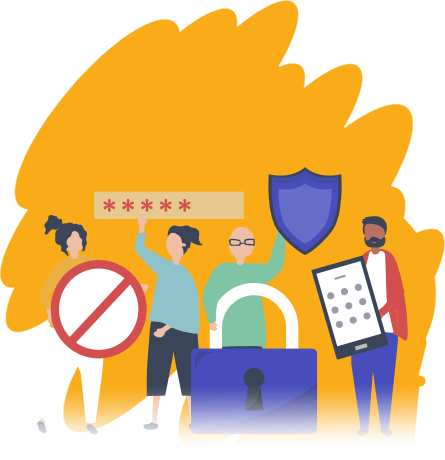
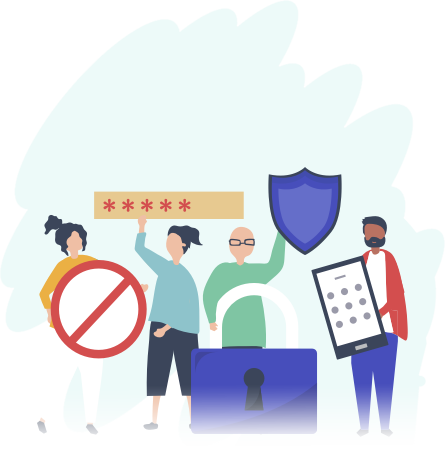
refinements :dash:

diff --git a/src/static/css/style.min.css b/src/static/css/style.min.css
@@ -1,1 +1,1 @@
-html{-webkit-box-sizing:border-box;-moz-box-sizing:border-box;-webkit-font-smoothing:antialiased;-moz-font-smoothing:antialiased;-o-font-smoothing:antialiased;text-rendering:optimizeLegibility;overflow-x:hidden}body{font-family:Poppins,sans-serif;font-size:1rem;background-color:#fefeff}sup{font-size:1.8rem;top:-.2em}.sup_footer{font-size:1.2rem;top:-.02em}.layout_padding{padding:75px 0}.layout_padding2{padding:45px 0}.layout_padding2 a{color:#34bbae;text-decoration:none;background-color:transparent}.layout_padding2 a:hover{color:#34bbae;opacity:.8;text-decoration:none;background-color:transparent}.layout_padding2 p{margin-bottom:20px;font-size:.8rem;line-height:1.8rem}.layout_padding2-top{padding-top:45px}.layout_padding-top{padding-top:75px}.layout_padding-bottom{padding-bottom:75px}#mindhugJobs{margin-bottom:100px}.btn-link{font-weight:600;color:#34bbae!important;text-decoration:none!important}.mindhugCareer button{background-color:#34bbae;border:none;outline:0;color:#fff;padding:8px 30px;margin-top:15px;font-size:15px;text-transform:uppercase;border-radius:3px}.mindhugCareer button:hover{background-color:#247971;color:#fff}.footer_link{font-weight:600}.footer_link{color:#34bbae}.footer_link:hover{color:#34bbae;opacity:.8}.call_to-btn{display:inline-block;padding:15px 45px;border-radius:3px;border:none!important;font-size:15px;background-color:#fff;color:#212121;font-weight:600;transition:all .3s ease 0s}.hero_section .call_to-btn{background-color:#34bbae;color:#fff}.call_to-btn img{width:18px;margin-left:10px}.btn_on-hover{transition:all .3s ease 0s}.btn_on-hover:hover,.call_to-btn:hover{-webkit-box-shadow:0 5px 10px -5px rgba(0,0,0,.7);-moz-box-shadow:0 5px 10px -5px rgba(0,0,0,.7);box-shadow:0 5px 10px -5px rgba(0,0,0,.7);transform:translateY(-7px)}.main-heading{color:#082465;font-weight:700;text-align:center}.header_section{padding-top:10px;font-family:Poppins,sans-serif;border-top:3px solid #34bbae}.subpages{padding-top:10px;font-family:Poppins,sans-serif;margin-bottom:100px;height:90px;border-top:3px solid #34bbae;background:#fff;box-shadow:0 0 5px rgba(0,0,0,.1)}nav.navbar.navbar-expand-lg{padding:10px 0}.custom_nav-container.navbar-expand-lg .navbar-nav .nav-link{padding:10px 20px;color:#212121;text-align:center}a,a:focus,a:hover{text-decoration:none}a:focus,a:hover{color:initial}.btn,.btn:focus{outline:0!important;box-shadow:none}.top_container{position:relative}.top_container::before{content:"";position:absolute;width:100%;height:100%;background-size:100% 100%;background-position:right bottom;background-repeat:no-repeat;z-index:-1}.sub_page .top_container::before{background-color:#fdd31d;background-image:none}.navbar-brand img{width:165px;margin-right:7px}.custom_nav-container .nav_search-btn{background-image:url(../images/search-icon.png);background-size:22px;background-repeat:no-repeat;background-position-y:7px;width:35px;height:35px;padding:0;border:none}.navbar-brand{display:flex;align-items:center}.navbar-brand span{font-size:22px;font-weight:700;color:#212121}.custom_nav-container{z-index:99999;padding:15px 0}.custom_nav-container .navbar-toggler{outline:0}.custom_nav-container .navbar-toggler .navbar-toggler-icon{background-image:url(../images/menu.svg);background-size:40px}.hero-container{display:flex;padding-top:90px;padding-bottom:100px}.hero_detail-box{width:50%}.hero_img-container{width:60%;margin-left:5%}.hero_img-container img{width:100%}.hero_detail-box{color:#212121}.hero_detail-box h1{font-size:50px;color:#212121;font-weight:600;width:100%}.hero_detail-box p{margin-top:20px;margin-bottom:35px}.common_style>section{padding:50px 0}.common_style .row{align-items:center}.common_style h3{font-weight:600;color:#151516}.common_style p{color:#4e4f50;margin:30px 0 50px 0}.common_style img{width:100%}.about_section{text-align:right;margin-bottom:100px}.about_section a{background-color:#34bbae;color:#fff}.section .title-area{max-width:960px;margin:0 auto 70px;display:block;padding:0 15px;text-align:center;line-height:2rem}.card .description{font-size:13px}.description h3{text-align:center;font-size:1.4rem;margin-top:20px}.card .title{margin-bottom:5px;color:#333;text-align:center;font-size:1.4rem}.small-text{color:#777;text-align:center;margin-bottom:80px}.section .bottom-area{max-width:760px;margin:70px auto 70px;display:block;padding:0 15px;text-align:center}.section .bottom-area h3{font-size:2.6rem}.section .bottom-area p{font-size:1.2rem;color:#777}.section .bottom-area button{background-color:#34bbae;border:none;outline:0;color:#fff;padding:12px 40px;margin-top:15px;font-size:15px;font-weight:700;text-transform:uppercase;border-radius:3px}.section .bottom-area button:hover{background-color:#247971;color:#fff}.avatar{border:3px solid #34bbae;border-radius:50%;overflow:hidden;max-width:180px;margin:0 auto}.avatar-danger{border-color:#34bbae}.admission_section a{background-color:#fdd31d;color:#fefeff}.why_section{text-align:right}.why_section a{background-color:#34bbae;color:#fff}.determine_section a{background-color:#faab18;color:#fefeff}.client_section h2,.client_section h5,.client_section p{font-weight:400}.client_section h2{text-align:center;font-weight:600}.client_section h5{font-size:24px;color:#212121;font-weight:600}.client_section .row{align-items:center;padding:75px 0;margin:0 15px}.client_section img{width:100%}.client_img-box::after,.client_img-box::before{content:"";position:absolute;width:100px;height:30px;border-radius:20px;background-color:#40e0d0}.client_img-box::before{top:-15px;transform:rotate(139deg);left:-15px;animation:beforeanimate 1s;animation-delay:.1s}.client_img-box::after{bottom:-15px;transform:rotate(142deg);right:-15px;animation:afteranimate 1s;animation-delay:.1s}@keyframes beforeanimate{0%{top:43%;transform:rotate(142deg);left:31%}100%{top:-15px;transform:rotate(139deg);left:-15px}}@keyframes afteranimate{0%{bottom:46%;transform:rotate(142deg);right:35%}100%{bottom:-15px;transform:rotate(142deg);right:-15px}}.client_section .carousel-indicators{margin:0;justify-content:flex-end;padding-right:15px;bottom:20px}.client_section .carousel-indicators li{width:25px;height:25px;background-color:#f7f7f7;border-radius:100%;opacity:1}.client_section .carousel-indicators li.active{background-color:#40e0d0}.section .mcp-title-area{max-width:760px;margin:0 auto 70px;display:block;padding:0 15px;text-align:center;line-height:2rem}.section .mcp-area{max-width:760px;margin:0 auto 70px;display:block;padding:0 15px;text-align:center}.section .mcp-area input{width:100%;height:40px;margin-bottom:20px;padding:0 15px;border-radius:3px;border:1px solid #ccc}.section .mcp-area textarea{width:100%;height:auto;margin-bottom:20px;padding:15px 15px;border-radius:3px;border:1px solid #ccc}.section .mcp-area input:focus{outline:0!important}.section .mcp-area textarea:focus{outline:0!important}.section .mcp-area button{background-color:#34bbae;border:none;outline:0;color:#fff;padding:12px 40px;margin-top:15px;font-size:15px;font-weight:700;text-transform:uppercase;border-radius:3px}.section .mcp-area button:hover{background-color:#247971;color:#fff}.validation-text{position:relative;top:2px;right:170px}.contact_section{padding:75px 45px;font-family:Poppins,sans-serif}.contact_section .row{align-items:center}.contact_section input{border:none;outline:0;border-bottom:1px solid #000;width:90%;margin:15px 0}.contact_form-container button{border:none;background-color:#6bd1bd;color:#fff;font-size:15px;padding:15px 45px;border-radius:30px;text-transform:uppercase;font-weight:700}.contact_img-box{display:flex;align-items:center}.contact_img-box img{width:100%}.contact_section h2{font-size:26px;color:#454545;font-weight:600;font-family:Poppins,sans-serif;margin-bottom:35px}.info_section{background-color:#f7f7f7;color:#222525;font-family:Poppins,sans-serif}.info_logo-box{display:flex;justify-content:center}.info_logo-box h2{font-weight:700;padding:5px 7px;border-bottom:1px solid #e6e2dd}.info_section ul{padding:0}.info_section ul li{list-style-type:none;margin:3px 0;font-size:.8rem;line-height:1.8rem}.info_section ul li a{color:#222525}.info_section ul li a:hover{color:#222525;opacity:.8}.info_section h5{margin-bottom:12px;font-size:.8rem;font-weight:600;text-transform:uppercase}.info_section .form_container input{height:40px;padding:10px}.info_section .form_container input::placeholder{color:#ccc8c8}.info_section .form_container button{background-color:#34bbae;border:none;outline:0;color:#fff;padding:8px 30px;margin-top:15px;font-size:15px;text-transform:uppercase;border-radius:3px}.info_section .form_container button:hover{background-color:#247971;color:#fff}.mindhug_validation{display:block;position:relative;padding-left:35px;margin-top:15px;margin-bottom:40px;cursor:pointer;font-size:.8rem;-webkit-user-select:none;-moz-user-select:none;-ms-user-select:none;user-select:none}.mindhug_validation span{line-height:1rem}.mindhug_validation input{position:absolute;opacity:0;cursor:pointer;height:0;width:0}.mindhug_checkmark{position:absolute;top:0;left:0;height:25px;width:25px;background-color:#eee;border:1px solid #d2d2d2;border-radius:3px}.mindhug_validation:hover input~.mindhug_checkmark{background-color:#f9f9f9}.mindhug_validation input:checked~.mindhug_checkmark{background-color:#34bbae;border:none}.mindhug_checkmark:after{content:"";position:absolute;display:none}.mindhug_validation input:checked~.mindhug_checkmark:after{display:block}.mindhug_validation .mindhug_checkmark:after{left:9px;top:5px;width:7px;height:10px;border:solid #fff;border-width:0 3px 3px 0;-webkit-transform:rotate(45deg);-ms-transform:rotate(45deg);transform:rotate(45deg)}.mindhug-checkmark{position:absolute;top:0;left:0;height:25px;width:25px;background-color:#eee;border:1px solid #d2d2d2;border-radius:3px}.mindhug_validation:hover input~.mindhug-checkmark{background-color:#f9f9f9}.mindhug_validation input:checked~.mindhug-checkmark{background-color:#34bbae;border:none}.mindhug-checkmark:after{content:"";position:absolute;display:none}.mindhug_validation input:checked~.mindhug-checkmark:after{display:block}.mindhug_validation .mindhug-checkmark:after{left:9px;top:5px;width:7px;height:10px;border:solid #fff;border-width:0 3px 3px 0;-webkit-transform:rotate(45deg);-ms-transform:rotate(45deg);transform:rotate(45deg)}.social_container{width:90%;margin:0 auto;padding:25px 0}.info_section .social-box{margin:0 auto;width:400px;display:flex;justify-content:center}.info_section .social-box img{width:35px;margin-right:5px}.info_section .social-box .fa{padding-left:.8rem!important;color:#222525;opacity:.7}.info_section .social-box .fa:hover{opacity:.9}.inner-pages p{margin:30px auto;line-height:1.8rem}.footer_section{background-color:#f7f7f7;padding:20px 15px;font-family:Poppins,sans-serif;border-top:1px solid #e6e2dd}.footer_section p{color:#222525;margin:0;text-align:center;font-size:.8rem}.footer_section a{color:#fdfdfe}.wpcc-btn{border-radius:5px;outline:0!important}.wpcc-container{box-shadow:0 0 10px rgba(0,0,0,.4)}
+html{-webkit-box-sizing:border-box;-moz-box-sizing:border-box;-webkit-font-smoothing:antialiased;-moz-font-smoothing:antialiased;-o-font-smoothing:antialiased;text-rendering:optimizeLegibility;overflow-x:hidden;outline:none!important}body{font-family:'Nunito',sans-serif;font-size:1rem;background-color:#fefeff}sup{font-size:1rem;top:-.6em}.sup_footer{font-size:.8rem;top:-.2em}.layout_padding{padding:75px 0}.layout_padding2{padding:45px 0}.layout_padding2 a{color:#34bbae;text-decoration:none;background-color:transparent}.layout_padding2 a:hover{color:#34bbae;opacity:.8;text-decoration:none;background-color:transparent}.layout_padding2 p{margin-bottom:20px;font-size:.8rem;line-height:1.8rem}.layout_padding2-top{padding-top:45px}.layout_padding-top{padding-top:75px}.layout_padding-bottom{padding-bottom:75px}#mindhugJobs{margin-bottom:100px}.btn-link{font-weight:600;color:#34bbae!important;text-decoration:none!important}.mindhugCareer button{background-color:#34bbae;border:none;outline:none;color:#fff;padding:8px 30px;margin-top:15px;font-size:15px;text-transform:uppercase;border-radius:3px}.mindhugCareer button:hover{background-color:#247971;color:#fff}.footer_link{font-weight:600;color:#34bbae}.footer_link:hover{color:#34bbae;opacity:.8}.call_to-btn{display:inline-block;padding:15px 45px;border-radius:3px;border:none!important;font-size:15px;background-color:#fff;color:#304351;font-weight:700;outline:none}.hero_section{background-image:url(../images/hero.jpg);background-position:50% 50%;background-size:cover;background-repeat:no-repeat;padding-bottom:100px}.hero_section .call_to-btn{background-color:#34bbae;color:#fff;outline:none}.call_to-btn img{width:18px;margin-left:10px}.btn_on-hover{background-color:#3cd6c7;color:#fff;outline:none}.call_to-btn:hover,.btn_on-hover:hover{background-color:#3cd6c7;color:#fff;outline:none}.main-heading{color:#082465;font-weight:700;text-align:center}.header_section{padding-top:10px;font-family:'Nunito',sans-serif;height:90px;border-top:3px solid #34bbae;border-bottom:1px solid #e4ebec}.subpages{padding-top:10px;font-family:'Nunito',sans-serif;margin-bottom:100px;height:90px;border-top:3px solid #34bbae;background:#fff;box-shadow:0 0 5px rgba(0,0,0,0.1)}nav.navbar.navbar-expand-lg{padding:10px 0}.custom_nav-container.navbar-expand-lg .navbar-nav .nav-link{padding:10px 20px;text-align:center;font-size:.9375rem;color:#304351;text-decoration:none}.custom_nav-container.navbar-expand-lg .navbar-nav .nav-link:active{color:#8f8c8c!important}.custom_nav-container.navbar-expand-lg .navbar-nav .nav-link:hover{color:#34bbae}a,a:hover,a:focus{text-decoration:none}a:hover,a:focus{color:initial}.btn,.btn:focus{outline:none!important;box-shadow:none}.top_container{position:relative}.top_container::before{content:"";position:absolute;width:100%;height:100%;background-size:100% 100%;background-position:right bottom;background-repeat:no-repeat;z-index:-1}.sub_page .top_container::before{background-color:#fdd31d;background-image:none}.navbar-brand img{width:165px;margin-right:7px}.custom_nav-container .nav_search-btn{background-image:url(../images/search-icon.png);background-size:22px;background-repeat:no-repeat;background-position-y:7px;width:35px;height:35px;padding:0;border:none}.navbar-brand{display:flex;align-items:center}.navbar-brand span{font-size:22px;font-weight:700;color:#304351}.custom_nav-container{z-index:99999;padding:15px 0}.custom_nav-container .navbar-toggler{outline:none}.custom_nav-container .navbar-toggler .navbar-toggler-icon{background-image:url(../images/menu.svg);background-size:40px}.hero-container{display:flex;padding-top:150px;padding-bottom:100px}.hero_detail-box{width:50%}.hero_img-container{width:60%;margin-left:5%}.hero_img-container img{width:100%}.hero_detail-box{color:#304351}.hero_detail-box h1{font-size:50px;color:#304351;font-weight:600;width:100%}.hero_detail-box p{margin-top:20px;margin-bottom:35px}.common_style>section{padding:50px 0}.common_style .row{align-items:center}.common_style h3{font-weight:600;color:#1e2b38}.common_style p{color:#4e4f50;margin:30px 0 50px}.common_style img{width:100%}.about_section{text-align:right;margin-bottom:100px}.about_section a{background-color:#34bbae;color:#fff}.section .title-area{max-width:960px;margin:0 auto 70px;display:block;padding:0 15px;text-align:center;line-height:2rem}.card .description{font-size:13px}.description h3{text-align:center;font-size:1.4rem;margin-top:20px}.card .title{margin-bottom:5px;color:#333;text-align:center;font-size:1.4rem}.small-text{color:#777;text-align:center;margin-bottom:80px}.section .bottom-area{max-width:760px;margin:70px auto;display:block;padding:0 15px;text-align:center}.section .bottom-area h3{font-size:2.6rem}.section .bottom-area p{font-size:1.2rem;color:#777}.section .bottom-area button{background-color:#3cd6c7;border:none;outline:none;color:#fff;padding:12px 40px;margin-top:15px;font-size:15px;font-weight:700;text-transform:uppercase;border-radius:3px}.section .bottom-area button:hover{background-color:#34bbae;color:#fff}.avatar{border:3px solid #34bbae;border-radius:50%;overflow:hidden;max-width:180px;margin:0 auto}.avatar-danger{border-color:#34bbae}.admission_section a{background-color:#fdd31d;color:#fefeff}.why_section{text-align:right}.why_section a{background-color:#34bbae;color:#fff}.determine_section a{background-color:#3cd6c7;color:#fff;outline:none}.determine_section a:hover{background-color:#34bbae;color:#fff;outline:none}.client_section h2,.client_section h5,.client_section p{font-weight:400}.client_section h2{text-align:center;font-weight:600}.client_section h5{font-size:24px;color:#304351;font-weight:600}.client_section .row{align-items:center;padding:75px 0;margin:0 15px}.client_section img{width:100%}.client_img-box::before,.client_img-box::after{content:"";position:absolute;width:100px;height:30px;border-radius:20px;background-color:#40E0D0}.client_img-box::before{top:-15px;transform:rotate(139deg);left:-15px;animation:beforeanimate 1s;animation-delay:.1s}.client_img-box::after{bottom:-15px;transform:rotate(142deg);right:-15px;animation:afteranimate 1s;animation-delay:.1s}@keyframes beforeanimate{0%{top:43%;transform:rotate(142deg);left:31%}100%{top:-15px;transform:rotate(139deg);left:-15px}}@keyframes afteranimate{0%{bottom:46%;transform:rotate(142deg);right:35%}100%{bottom:-15px;transform:rotate(142deg);right:-15px}}.client_section .carousel-indicators{margin:0;justify-content:flex-end;padding-right:15px;bottom:20px}.client_section .carousel-indicators li{width:25px;height:25px;background-color:#f7f7f7;border-radius:100%;opacity:1}.client_section .carousel-indicators li.active{background-color:#40E0D0}.section .mcp-title-area{max-width:760px;margin:0 auto 70px;display:block;padding:0 15px;text-align:center;line-height:2rem}.section .mcp-area{max-width:760px;margin:0 auto 70px;display:block;padding:0 15px;text-align:center}.section .mcp-area input{width:100%;height:40px;margin-bottom:20px;padding:0 15px;border-radius:3px;border:1px solid #ccc}.section .mcp-area textarea{width:100%;height:auto;margin-bottom:20px;padding:15px;border-radius:3px;border:1px solid #ccc}.section .mcp-area input:focus{outline:none!important}.section .mcp-area textarea:focus{outline:none!important}.section .mcp-area button{background-color:#34bbae;border:none;outline:none;color:#fff;padding:12px 40px;margin-top:15px;font-size:15px;font-weight:700;text-transform:uppercase;border-radius:3px}.section .mcp-area button:hover{background-color:#247971;color:#fff}.validation-text{position:relative;top:2px;right:170px}.contact_section{padding:75px 45px;font-family:'Nunito',sans-serif}.contact_section .row{align-items:center}.contact_section input{border:none;outline:none;border-bottom:1px solid #000;width:90%;margin:15px 0}.contact_form-container button{border:none;background-color:#6bd1bd;color:#fff;font-size:15px;padding:15px 45px;border-radius:30px;text-transform:uppercase;font-weight:700}.contact_img-box{display:flex;align-items:center}.contact_img-box img{width:100%}.contact_section h2{font-size:26px;color:#454545;font-weight:600;font-family:'Nunito',sans-serif;margin-bottom:35px}.info_section{background-color:#f7f7f7;color:#222525;font-family:'Nunito',sans-serif}.info_logo-box{display:flex;justify-content:center}.info_logo-box h2{font-weight:700;padding:5px 7px;border-bottom:1px solid #e6e2dd}.info_section ul{padding:0}.info_section ul li{list-style-type:none;margin:3px 0;font-size:.8rem;line-height:1.8rem}.info_section ul li a{color:#222525}.info_section ul li a:hover{color:#222525;opacity:.8}.info_section h5{margin-bottom:12px;font-size:.8rem;font-weight:600;text-transform:uppercase}.info_section .form_container input{height:40px;padding:10px}.info_section .form_container input::placeholder{color:#ccc8c8}.info_section .form_container button{background-color:#34bbae;border:none;outline:none;color:#fff;padding:8px 30px;margin-top:15px;font-size:15px;font-weight:700;text-transform:uppercase;border-radius:3px}.info_section .form_container button:hover{background-color:#3cd6c7;color:#fff}.mindhug_validation{display:block;position:relative;padding-left:35px;margin-top:15px;margin-bottom:40px;cursor:pointer;font-size:.8rem;-webkit-user-select:none;-moz-user-select:none;-ms-user-select:none;user-select:none}.mindhug_validation span{line-height:1rem}.mindhug_validation input{position:absolute;opacity:0;cursor:pointer;height:0;width:0}.mindhug_checkmark{position:absolute;top:0;left:0;height:25px;width:25px;background-color:#eee;border:1px solid #d2d2d2;border-radius:3px}.mindhug_validation:hover input ~ .mindhug_checkmark{background-color:#f9f9f9}.mindhug_validation input:checked ~ .mindhug_checkmark{background-color:#34bbae;border:none}.mindhug_checkmark:after{content:"";position:absolute;display:none}.mindhug_validation input:checked ~ .mindhug_checkmark:after{display:block}.mindhug_validation .mindhug_checkmark:after{left:9px;top:5px;width:7px;height:10px;border:solid #fff;border-width:0 3px 3px 0;-webkit-transform:rotate(45deg);-ms-transform:rotate(45deg);transform:rotate(45deg)}.mindhug-checkmark{position:absolute;top:0;left:0;height:25px;width:25px;background-color:#eee;border:1px solid #d2d2d2;border-radius:3px}.mindhug_validation:hover input ~ .mindhug-checkmark{background-color:#f9f9f9}.mindhug_validation input:checked ~ .mindhug-checkmark{background-color:#34bbae;border:none}.mindhug-checkmark:after{content:"";position:absolute;display:none}.mindhug_validation input:checked ~ .mindhug-checkmark:after{display:block}.mindhug_validation .mindhug-checkmark:after{left:9px;top:5px;width:7px;height:10px;border:solid #fff;border-width:0 3px 3px 0;-webkit-transform:rotate(45deg);-ms-transform:rotate(45deg);transform:rotate(45deg)}.social_container{width:90%;margin:0 auto;padding:25px 0}.info_section .social-box{margin:0 auto;width:400px;display:flex;justify-content:center}.info_section .social-box img{width:35px;margin-right:5px}.info_section .social-box .fa{padding-left:.8rem!important;color:#222525;opacity:.7}.info_section .social-box .fa:hover{opacity:.9}.inner-pages p{margin:30px auto;line-height:1.8rem}.footer_section{background-color:#f7f7f7;padding:20px 15px;font-family:'Nunito',sans-serif;border-top:1px solid #e6e2dd}.footer_section p{color:#222525;margin:0;text-align:center;font-size:.8rem}.footer_section a{color:#fdfdfe}.wpcc-btn{border-radius:5px;outline:none!important}.wpcc-container{box-shadow:0 0 10px rgba(0,0,0,.4)}

diff --git a/src/static/css/style.css b/src/static/css/style.css
@@ -6,22 +6,23 @@ html {
     -o-font-smoothing:antialiased;
     text-rendering:optimizeLegibility;
     overflow-x: hidden;
+    outline: none !important;
 }
 
 body {
-  font-family: 'Poppins', sans-serif;
+  font-family: 'Nunito', sans-serif;
   font-size: 1rem;
   background-color: #fefeff;
 }
 
 sup {
-  font-size: 1.8rem;
-  top: -.2em;
+  font-size: 1rem;
+  top: -.6em;
 }
 
 .sup_footer {
-  font-size: 1.2rem;
-  top: -.02em;
+  font-size: .8rem;
+  top: -.2em;
 }
 
 .layout_padding {
@@ -110,14 +111,23 @@ sup {
   border: none !important;
   font-size: 15px;
   background-color: #ffffff;
-  color: #212121;
-  font-weight: 600;
-  transition: all 0.3s ease 0s;
+  color: #304351;
+  font-weight: 700;
+  outline: none;
+}
+
+.hero_section {
+  background-image: url("../images/hero.jpg");
+  background-position: 50% 50%;
+  background-size: cover;
+  background-repeat: no-repeat;
+  padding-bottom: 100px;
 }
 
 .hero_section .call_to-btn {
   background-color: #34bbae;
   color: #ffffff;
+  outline: none;
 }
 
 .call_to-btn img {
@@ -126,15 +136,16 @@ sup {
 }
 
 .btn_on-hover {
-  transition: all 0.3s ease 0s;
+  background-color: #3cd6c7;
+  color: #ffffff;
+  outline: none;
 }
 
 .call_to-btn:hover,
 .btn_on-hover:hover {
-  -webkit-box-shadow: 0px 5px 10px -5px rgba(0, 0, 0, 0.7);
-  -moz-box-shadow: 0px 5px 10px -5px rgba(0, 0, 0, 0.7);
-  box-shadow: 0px 5px 10px -5px rgba(0, 0, 0, 0.7);
-  transform: translateY(-7px);
+  background-color: #3cd6c7;
+  color: #ffffff;
+  outline: none;
 }
 
 .main-heading {
@@ -146,13 +157,15 @@ sup {
 
 .header_section {
   padding-top: 10px;
-  font-family: 'Poppins', sans-serif;
+  font-family: 'Nunito', sans-serif;
+  height: 90px;
   border-top: 3px solid #34bbae;
+  border-bottom: 1px solid #e4ebec;
 }
 
 .subpages{
   padding-top: 10px;
-  font-family: 'Poppins', sans-serif;
+  font-family: 'Nunito', sans-serif;
   margin-bottom: 100px;
   height: 90px;
   border-top: 3px solid #34bbae;
@@ -166,8 +179,18 @@ nav.navbar.navbar-expand-lg {
 
 .custom_nav-container.navbar-expand-lg .navbar-nav .nav-link {
   padding: 10px 20px;
-  color: #212121;
   text-align: center;
+  font-size: 0.9375rem;
+  color: #304351;
+  text-decoration: none;
+}
+
+.custom_nav-container.navbar-expand-lg .navbar-nav .nav-link:active {
+  color: #8f8c8c !important;
+}
+
+.custom_nav-container.navbar-expand-lg .navbar-nav .nav-link:hover {
+  color: #34bbae;
 }
 
 a,
@@ -233,7 +256,7 @@ a:focus {
 .navbar-brand span {
   font-size: 22px;
   font-weight: 700;
-  color: #212121;
+  color: #304351;
 }
 
 .custom_nav-container {
@@ -254,7 +277,7 @@ a:focus {
 /* hero section */
 .hero-container {
   display: flex;
-  padding-top: 90px;
+  padding-top: 150px;
   padding-bottom: 100px;
 }
 
@@ -272,12 +295,12 @@ a:focus {
 }
 
 .hero_detail-box {
-  color: #212121;
+  color: #304351;
 }
 
 .hero_detail-box h1 {
   font-size: 50px;
-  color: #212121;
+  color: #304351;
   font-weight: 600;
   width: 100%;
 }
@@ -299,7 +322,7 @@ a:focus {
 
 .common_style h3 {
   font-weight: 600;
-  color: #151516;
+  color: #1e2b38;
 }
 
 .common_style p {
@@ -373,7 +396,7 @@ a:focus {
 }
 
 .section .bottom-area button {
-    background-color: #34bbae;
+    background-color: #3cd6c7;
     border: none;
     outline: none;
     color: #ffffff;
@@ -386,7 +409,7 @@ a:focus {
 }
 
 .section .bottom-area button:hover {
-  background-color: #247971;
+  background-color: #34bbae;
   color: #ffffff;
 }
 
@@ -425,8 +448,15 @@ a:focus {
 
 /* determine section */
 .determine_section a {
-  background-color: #faab18;
-  color: #fefeff;
+  background-color: #3cd6c7;
+  color: #ffffff;
+  outline: none;
+}
+
+.determine_section a:hover {
+  background-color: #34bbae;
+  color: #ffffff;
+  outline: none;
 }
 /* end determine section */
 
@@ -445,7 +475,7 @@ a:focus {
 
 .client_section h5 {
   font-size: 24px;
-  color: #212121;
+  color: #304351;
   font-weight: 600;
 }
 
@@ -605,7 +635,7 @@ a:focus {
 
 .contact_section {
   padding: 75px 45px;
-  font-family: 'Poppins', sans-serif;
+  font-family: 'Nunito', sans-serif;
 }
 
 .contact_section .row {
@@ -646,7 +676,7 @@ a:focus {
   font-size: 26px;
   color: #454545;
   font-weight: 600;
-  font-family: 'Poppins', sans-serif;
+  font-family: 'Nunito', sans-serif;
   margin-bottom: 35px;
 }
 /* end contact section */
@@ -656,7 +686,7 @@ a:focus {
 .info_section {
   background-color: #f7f7f7;
   color: #222525;
-  font-family: 'Poppins', sans-serif;
+  font-family: 'Nunito', sans-serif;
 }
 
 .info_logo-box {
@@ -714,12 +744,13 @@ a:focus {
   padding: 8px 30px;
   margin-top: 15px;
   font-size: 15px;
+  font-weight: 700;
   text-transform: uppercase;
   border-radius: 3px;
 }
 
 .info_section .form_container button:hover {
-  background-color: #247971;
+  background-color: #3cd6c7;
   color: #ffffff;
 }
 
@@ -874,7 +905,7 @@ a:focus {
 .footer_section {
   background-color: #f7f7f7;
   padding: 20px 15px;
-  font-family: 'Poppins', sans-serif;
+  font-family: 'Nunito', sans-serif;
   border-top: 1px solid #e6e2dd;
 }
 

diff --git a/src/templates/index.html b/src/templates/index.html
@@ -32,9 +32,9 @@
         <div class="hero_img-container">
           <div>
             <picture>
-              <source srcset="{{ url_for('static', filename='images/hero.webp') }}" type="image/webp" alt="MindHug Hero" class="img-fluid">
-              <source srcset="{{ url_for('static', filename='images/hero.png') }}" type="image/png" alt="MindHug Hero" class="img-fluid"> 
-              <img src="{{ url_for('static', filename='images/hero.png') }}" type="image/png" alt="MindHug Hero" class="img-fluid">
+              <source srcset="{{ url_for('static', filename='images/hero-image.webp') }}" type="image/webp" alt="MindHug Hero" class="img-fluid">
+              <source srcset="{{ url_for('static', filename='images/hero-image.png') }}" type="image/png" alt="MindHug Hero" class="img-fluid"> 
+              <img src="{{ url_for('static', filename='images/hero-image.png') }}" type="image/png" alt="MindHug Hero" class="img-fluid">
             </picture>
           </div>
         </div>
@@ -273,7 +273,7 @@
     </section>
 
   <!-- testimonial section -->
-<!--   <section class="client_section layout_padding">
+  <section class="client_section layout_padding">
     <h2 class="">
       Testimonial
     </h2>
@@ -299,12 +299,10 @@
                       <div class="col-md-9">
                         <div class="client_detail-box">
                           <h5>
-                            Cool Therapist 1
+                            Becca Staple (MindHug Moments Attendee)
                           </h5>
                           <p>
-                            Lorem ipsum dolor sit amet, consectetur adipiscing elit, sed do eiusmod tempor incididunt ut labore et
-                            dolore magna aliqua. Ut enim ad minim veniam, quis nostrud exercitation ullamco laboris nisi ut aliquip ex
-                            ea commodo consequat. Duis aute irure dolor in reprehenderit in voluptate
+                            Having activities to try was a really good way to engage and understand how it can really help.
                           </p>
                         </div>
                       </div>
@@ -324,37 +322,10 @@
                       <div class="col-md-9">
                         <div class="client_detail-box">
                           <h5>
-                            Cool Therapist 2
+                            Diana Yin, (Innovation Advisor, UCL Innovation and Enterprise)
                           </h5>
                           <p>
-                            Lorem ipsum dolor sit amet, consectetur adipiscing elit, sed do eiusmod tempor incididunt ut labore et
-                            dolore magna aliqua. Ut enim ad minim veniam, quis nostrud exercitation ullamco laboris nisi ut aliquip ex
-                            ea commodo consequat. Duis aute irure dolor in reprehenderit in voluptate
-                          </p>
-                        </div>
-                      </div>
-                    </div>
-              </div>
-              <div class="carousel-item">
-                  <div class="row">
-                      <div class="col-md-3">
-                        <div class="client_img-box">
-                        <picture>
-                          <source srcset="{{ url_for('static', filename='images/testimonial.webp') }}" type="image/webp" alt="MindHug Testimonial" class="img-fluid">
-                          <source srcset="{{ url_for('static', filename='images/testimonial.png') }}" type="image/png" alt="MindHug Testimonial" class="img-fluid"> 
-                          <img src="{{ url_for('static', filename='images/testimonial.png') }}" type="image/png" alt="MindHug Testimonial" class="img-fluid">
-                        </picture>
-                        </div>
-                      </div>
-                      <div class="col-md-9">
-                        <div class="client_detail-box">
-                          <h5>
-                            Cool Therapist 3
-                          </h5>
-                          <p>
-                            Lorem ipsum dolor sit amet, consectetur adipiscing elit, sed do eiusmod tempor incididunt ut labore et
-                            dolore magna aliqua. Ut enim ad minim veniam, quis nostrud exercitation ullamco laboris nisi ut aliquip ex
-                            ea commodo consequat. Duis aute irure dolor in reprehenderit in voluptate
+                            Thanks team!!! I came in tired after a whole day of work (also end of the week), but came out relaxed and happy, almost ready for the week ahead. ;)
                           </p>
                         </div>
                       </div>
@@ -363,7 +334,7 @@
             </div>
           </div>
     </div>
-  </section> -->
+  </section>
 
   </div>
 

diff --git a/src/templates/layout.html b/src/templates/layout.html
@@ -20,7 +20,7 @@
     <link rel="stylesheet" type="text/css" href="{{ url_for('static', filename='css/bootstrap.min.css') }}" />
 
     <!-- fonts style -->
-
+    <link href="https://fonts.googleapis.com/css2?family=Nunito:wght@300;400;600;700&display=swap" rel="stylesheet">
 
     <!-- font wesome stylesheet -->
     <link rel="stylesheet" href="https://maxcdn.bootstrapcdn.com/font-awesome/4.3.0/css/font-awesome.min.css">
@@ -72,7 +72,6 @@
 <script type="text/javascript" src="{{ url_for('static', filename='scripts/main.min.js') }}"></script>
 <script type="text/javascript" src="{{ url_for('static', filename='scripts/jquery-3.4.1.min.js') }}"></script>
 <script type="text/javascript" src="{{ url_for('static', filename='scripts/bootstrap.min.js') }}"></script>
-
 
 <!-- Global site tag (gtag.js) - Google Analytics -->
 <script async src="//www.googletagmanager.com/gtag/js?id=UA-156513245-1"></script>

diff --git a/src/templates/includes/_navbar.html b/src/templates/includes/_navbar.html
@@ -33,7 +33,7 @@
                 </li>
 
                 <li class="nav-item">
-                  <a class="nav-link" href="https://medium.com/mymindhug"> Blog/Research </a>
+                  <a class="nav-link" href="https://medium.com/mymindhug"> Blog </a>
                 </li>
 
                 <li class="nav-item">

diff --git a/src/templates/includes/_navsub.html b/src/templates/includes/_navsub.html
@@ -33,7 +33,7 @@
                 </li>
 
                 <li class="nav-item">
-                  <a class="nav-link" href="https://medium.com/mymindhug"> Blog/Research </a>
+                  <a class="nav-link" href="https://medium.com/mymindhug"> Blog </a>
                 </li>
 
                 <li class="nav-item">
